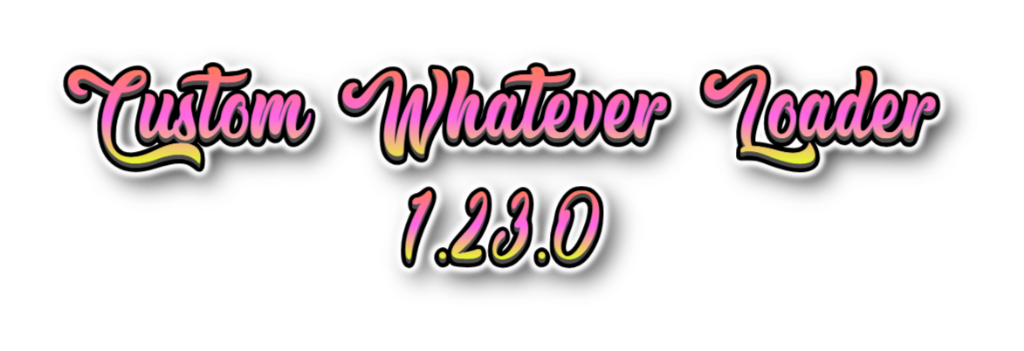
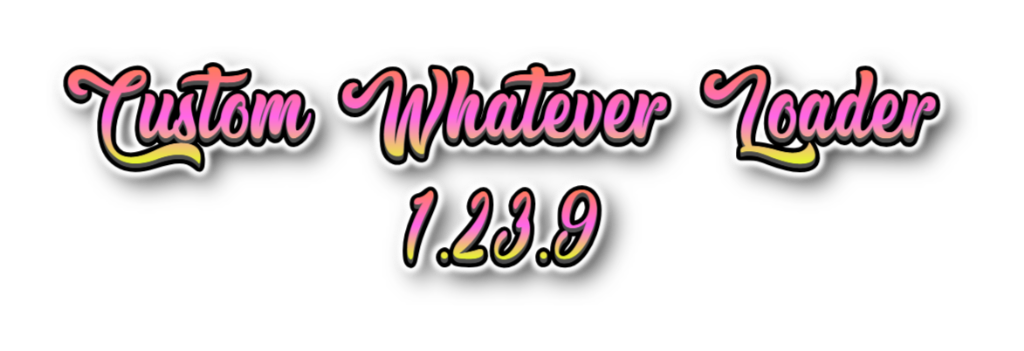
feat!(CWL): merge the rest of features into Elin

Changed region(s): [[0.375, 0.5128, 0.5938, 0.7692]]

diff --git a/CustomWhateverLoader/Loader/CwlStartTask.cs b/CustomWhateverLoader/Loader/CwlStartTask.cs
@@ -112,22 +112,22 @@ internal sealed partial class CwlMod
 
         CustomAchievement.ReimportAchievementDefinitions();
 
-        DataLoader.MergeEffectSetting();
+        //DataLoader.MergeEffectSetting();
 
         // post init tasks
         yield return null;
 
         if (!IsModdingApiAvailable) {
             DataLoader.PreloadDialog();
+            DataLoader.MergeCharaTalk();
+            DataLoader.MergeCharaTone();
+            DataLoader.MergeFactionElements();
+            DataLoader.MergeOfferingMultiplier();
+
         }
-        DataLoader.MergeCharaTalk();
-        DataLoader.MergeCharaTone();
         //DataLoader.MergeGodTalk();
         //DataLoader.MergeCustomAlias();
         //DataLoader.MergeCustomName();
-
-        DataLoader.MergeFactionElements();
-        DataLoader.MergeOfferingMultiplier();
 
         AddSoundsAndBGM();
 
@@ -172,12 +172,11 @@ internal sealed partial class CwlMod
     private static void AddResourceRelocators()
     {
         if (!IsModdingApiAvailable) {
+            DataLoader.SetupEffectTemplate();
             LoadResourcesPatch.AddHandler<SoundData>(DataLoader.RelocateSound);
+            LoadResourcesPatch.AddHandler<Effect>(DataLoader.RelocateEffect);
         }
         LoadResourcesPatch.AddHandler<Sprite>(DataLoader.RelocateSprite);
-
-        DataLoader.SetupEffectTemplate();
-        LoadResourcesPatch.AddHandler<Effect>(DataLoader.RelocateEffect);
     }
 
     private static void AddSoundsAndBGM()

diff --git a/CustomWhateverLoader/Loader/CustomWhateverLoader.cs b/CustomWhateverLoader/Loader/CustomWhateverLoader.cs
@@ -22,7 +22,7 @@ public static class ModInfo
     public const string Guid = "dk.elinplugins.customdialogloader";
     public const string Name = "Custom Whatever Loader";
 
-    public const string Version = "1.23.7";
+    public const string Version = "1.23.9";
 
     // for runtime versions
     public static string BuildVersion => field ??= CwlMod.Assembly.GetName().Version.ToString();

diff --git a/CustomWhateverLoader/Loader/CwlException.cs b/CustomWhateverLoader/Loader/CwlException.cs
@@ -9,7 +9,7 @@ internal partial class CwlMod
     private static void SetupExceptionHook()
     {
         //Application.logMessageReceived += ExceptionHandler;
-        ModManagerCore.exceptionPopup = CwlConfig.ExceptionPopup;
+        Core.Instance.config.other.exceptionPopup = CwlConfig.ExceptionPopup;
     }
 
     private static void ExceptionHandler(string message, string stackTrace, LogType type)

diff --git a/CustomWhateverLoader/Patches/Calcs/LoadRefDicePatch.cs b/CustomWhateverLoader/Patches/Calcs/LoadRefDicePatch.cs
@@ -3,7 +3,7 @@ using HarmonyLib;
 
 namespace Cwl.Patches.Calcs;
 
-[HarmonyPatch]
+//[HarmonyPatch]
 internal class LoadRefDicePatch
 {
     [HarmonyPrefix]

diff --git a/CustomWhateverLoader/Patches/Charas/RepositionTcPatch.cs b/CustomWhateverLoader/Patches/Charas/RepositionTcPatch.cs
@@ -6,7 +6,7 @@ using UnityEngine;
 
 namespace Cwl.Patches.Charas;
 
-[HarmonyPatch]
+//[HarmonyPatch]
 internal class RepositionTcPatch
 {
     private static float CacheRaycastDistTwoWay(Sprite sprite)

diff --git a/CustomWhateverLoader/Patches/Dramas/AllowUniqueTalkPatch.cs b/CustomWhateverLoader/Patches/Dramas/AllowUniqueTalkPatch.cs
@@ -5,7 +5,7 @@ using HarmonyLib;
 
 namespace Cwl.Patches.Dramas;
 
-[HarmonyPatch]
+//[HarmonyPatch]
 internal class AllowUniqueTalkPatch
 {
     [HarmonyTranspiler]

diff --git a/CustomWhateverLoader/Patches/Dramas/DramaExpansionPatch.cs b/CustomWhateverLoader/Patches/Dramas/DramaExpansionPatch.cs
@@ -10,7 +10,7 @@ using HarmonyLib;
 
 namespace Cwl.Patches.Dramas;
 
-[HarmonyPatch(typeof(DramaManager), nameof(DramaManager.ParseLine))]
+//[HarmonyPatch(typeof(DramaManager), nameof(DramaManager.ParseLine))]
 internal class DramaExpansionPatch
 {
     internal static bool Prepare()

diff --git a/CustomWhateverLoader/Patches/Dramas/DramaPortraitOverride.cs b/CustomWhateverLoader/Patches/Dramas/DramaPortraitOverride.cs
@@ -4,7 +4,7 @@ using UnityEngine;
 
 namespace Cwl.Patches.Dramas;
 
-[HarmonyPatch]
+//[HarmonyPatch]
 internal class DramaPortraitOverride
 {
     [SwallowExceptions]

diff --git a/CustomWhateverLoader/Patches/Dramas/GetOrAddPersonPatch.cs b/CustomWhateverLoader/Patches/Dramas/GetOrAddPersonPatch.cs
@@ -3,7 +3,7 @@ using HarmonyLib;
 
 namespace Cwl.Patches.Dramas;
 
-[HarmonyPatch]
+//[HarmonyPatch]
 internal class GetOrAddPersonPatch
 {
     [SwallowExceptions]

diff --git a/CustomWhateverLoader/Patches/Dramas/SafePlayDramaPatch.cs b/CustomWhateverLoader/Patches/Dramas/SafePlayDramaPatch.cs
@@ -8,7 +8,7 @@ using HarmonyLib;
 
 namespace Cwl.Patches.Dramas;
 
-[HarmonyPatch]
+//[HarmonyPatch]
 internal class SafePlayDramaPatch
 {
     internal static IEnumerable<MethodBase> TargetMethods()

diff --git a/CustomWhateverLoader/Patches/Effects/ExtendedGunEffectPatch.cs b/CustomWhateverLoader/Patches/Effects/ExtendedGunEffectPatch.cs
@@ -9,7 +9,7 @@ using UnityEngine;
 
 namespace Cwl.Patches.Effects;
 
-[HarmonyPatch]
+//[HarmonyPatch]
 internal class ExtendedGunEffectPatch : EClass
 {
     [HarmonyPrefix]

diff --git a/CustomWhateverLoader/Patches/Elements/MergeAttackElementPatch.cs b/CustomWhateverLoader/Patches/Elements/MergeAttackElementPatch.cs
@@ -5,7 +5,7 @@ using MethodTimer;
 
 namespace Cwl.Patches.Elements;
 
-[HarmonyPatch]
+//[HarmonyPatch]
 internal class MergeAttackElementPatch
 {
     [Time]